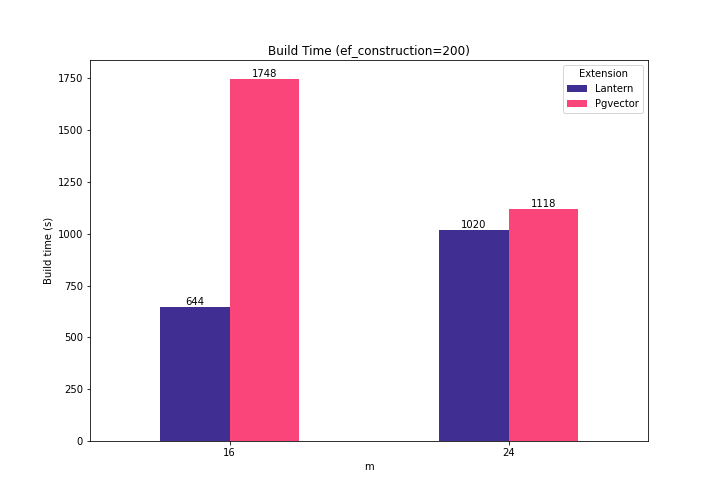
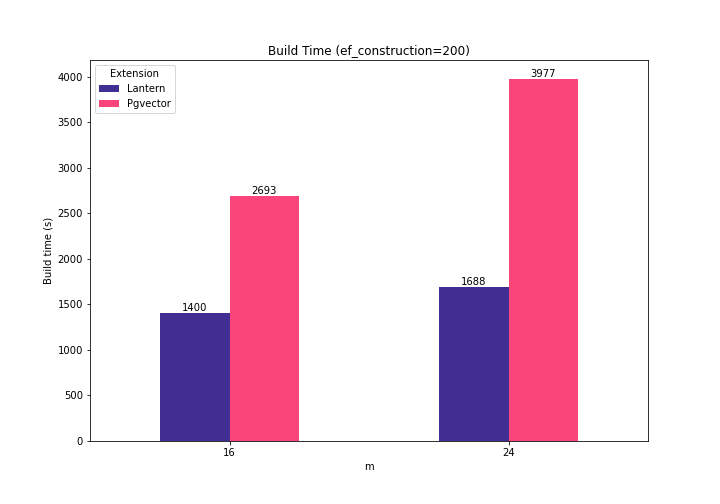
Fixed build time graph

diff --git a/docusaurus/blog/2024-01-18-pgvector-and-lantern/index.md b/docusaurus/blog/2024-01-18-pgvector-and-lantern/index.md
@@ -99,7 +99,7 @@ So, it seems that Lantern sacrifices throughput in exchange of index creation ti
 
 Hold on… but is this true for other data points as well? Let’s see.
 
-With the construction parameters `m = {16, 24}` and `ef_construction = {200}`, the creation time is still better with Lantern: between 1.7X and 2X. And the resulting index is bigger in Pgvector: between 1.13X and 1.20X compared to Latern’s index.
+With the construction parameters `m = {16, 24}` and `ef_construction = {200}`, the creation time is still better with Lantern: between 1.9X and 2.3X. And the resulting index is bigger in Pgvector: between 1.13X and 1.20X compared to Latern’s index.
 
 ![Build time](./011-sift-build-time.png)
 ![Index Size](./012-sift-index-size.png)
@@ -122,7 +122,7 @@ And once again, Pgvector has 42-58% higher throughput and 30-39% better latencie
 ![Throughput](./017-sift-qps-m24.png)
 ![Latency](./017-sift-latency-m24.png)
 
-These results were consistent with my observations when using Gist-960 and Glove-200. You can see more results [here](https://github.com/binidxaba/lantern-pgvector-comparison/tree/main).
+These trends were consistent with my observations when using Gist-960 and Glove-200. You can see more results [here](https://github.com/binidxaba/lantern-pgvector-comparison/tree/main).
 
 
 ## Conclusions
@@ -150,6 +150,7 @@ The experiments in this post were carried out using a machine with the following
 | **Storage**          | 100GB                                         |
 | **Operating System** | Debian 11.8                                   |
 | **Postgres**         | 15                                            |
+| **Postgres Config ** | `maintenance_work_mem=5GB; work_mem=2GB; shared_buffers=12GB` |
 | **Lantern**          | 0.0.11                                        |
 | **PGVector**         | 0.5.1                                         |
 
